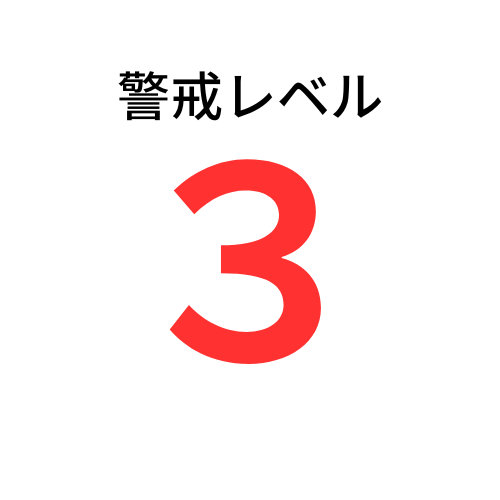
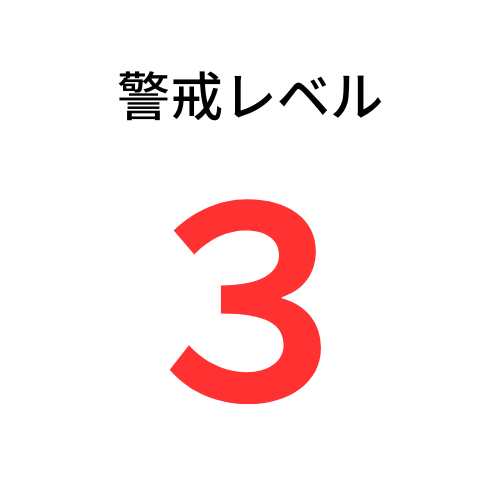
up

Changed region(s): [[0.33, 0.3, 0.66, 0.81]]

diff --git a/practice/level.html b/practice/level.html
@@ -71,9 +71,9 @@
 
     <p class="pt-5 pb-5">あなたがとるべき避難行動は、どのタイミングでの避難でしょうか？</p>
     <p class="pb-5">ご家族、友人とチェックしてみましょう！</p>
-    <img class="inline w-80" src="./img/family.jpg" alt="避難行動判定フローの画像">
+    <img class="inline w-64" src="./img/family.jpg" alt="避難行動判定フローの画像">
     <p class="pt-5">
-      <button class="bg-blue-500 hover:bg-white-100 text-white rounded px-4 py-2"><a href="#section2">はじめる</a></button>
+      <button class="bg-blue-500 hover:bg-blue-400 text-white rounded px-4 py-2"><a href="#section2">はじめる</a></button>
     </p>
 
   </div>
@@ -82,17 +82,17 @@
     <h1 class="text-2xl">ハザードマップを確認！</h1>
     <p class="pt-5 pb-5">家がある場所に色が塗られていますか？</p>
 
-    <img class="inline w-80" src="./img/hazardmap.png" alt="ハザードマップを確認の画像">
+    <img class="inline w-64" src="./img/hazardmap.png" alt="ハザードマップを確認の画像">
 
     <p class="pt-5">
-      <button class="bg-blue-500 hover:bg-white-100 text-white rounded px-4 py-2 mr-5"><a href="#section4">は　い</a></button>
-      <button class="bg-blue-500 hover:bg-white-100 text-white rounded px-4 py-2"><a href="#section3">いいえ</a></button>
+      <button class="bg-blue-500 hover:bg-blue-400 text-white rounded px-4 py-2 mr-5"><a href="#section4">は　い</a></button>
+      <button class="bg-blue-500 hover:bg-blue-400 text-white rounded px-4 py-2"><a href="#section3">いいえ</a></button>
     </p>
 
   </div>
   <div class="section" id="section3">
     <h1 class="text-3xl">ANSWER</h1>
-    <img class="inline w-80 pt-5" src="./img/mountain.png" alt="山間部の画像">
+    <img class="inline w-64 pt-5" src="./img/mountain.png" alt="山間部の画像">
     <p class="pt-5 pb-5">色が塗られていなくても、周りと比べて低い土地や崖のそばなどにお住まいの方は、市区町村からの避難情報を参考に必要に応じて避難してください。</p>
 
   </div>
@@ -101,11 +101,11 @@
     <h1 class="text-2xl">避難にかかる時間を確認！</h1>
     <p class="pt-5 pb-5">ご自身または一緒に避難する方は避難に時間がかかりますか？</p>
 
-    <img class="inline w-80" src="./img/refugetime.jpg" alt="避難にかかる時間を確認の画像">
+    <img class="inline w-64" src="./img/refugetime.jpg" alt="避難にかかる時間を確認の画像">
 
     <p class="pt-5">
-      <button class="bg-blue-500 hover:bg-white-100 text-white rounded px-4 py-2 mr-5"><a href="#section5">は　い</a></button>
-      <button class="bg-blue-500 hover:bg-white-100 text-white rounded px-4 py-2"><a href="#section6">いいえ</a></button>
+      <button class="bg-blue-500 hover:bg-blue-400 text-white rounded px-4 py-2 mr-5"><a href="#section5">は　い</a></button>
+      <button class="bg-blue-500 hover:bg-blue-400 text-white rounded px-4 py-2"><a href="#section6">いいえ</a></button>
     </p>
   </div>
 
@@ -113,11 +113,11 @@
     <h1 class="text-2xl">身を寄せられる場所の確認！</h1>
     <p class="pt-5 pb-5">安全な場所に住んでいて身を寄せられる親戚や知人はいますか？</p>
 
-    <img class="inline w-80" src="./img/network.jpg" alt="身を寄せられる場所の確認の画像">
+    <img class="inline w-64" src="./img/network.jpg" alt="身を寄せられる場所の確認の画像">
 
     <p class="pt-5">
-      <button class="bg-blue-500 hover:bg-white-100 text-white rounded px-4 py-2 mr-5"><a href="#section7">は　い</a></button>
-      <button class="bg-blue-500 hover:bg-white-100 text-white rounded px-4 py-2"><a href="#section8">いいえ</a></button>
+      <button class="bg-blue-500 hover:bg-blue-400 text-white rounded px-4 py-2 mr-5"><a href="#section7">は　い</a></button>
+      <button class="bg-blue-500 hover:bg-blue-400 text-white rounded px-4 py-2"><a href="#section8">いいえ</a></button>
     </p>
   </div>
 
@@ -125,18 +125,18 @@
     <h1 class="text-2xl">身を寄せられる場所の確認！</h1>
     <p class="pt-5 pb-5">安全な場所に住んでいて身を寄せられる親戚や知人はいますか？</p>
 
-    <img class="inline w-80" src="./img/network.jpg" alt="身を寄せられる場所の確認の画像">
+    <img class="inline w-64" src="./img/network.jpg" alt="身を寄せられる場所の確認の画像">
 
     <p class="pt-5">
-      <button class="bg-blue-500 hover:bg-white-100 text-white rounded px-4 py-2 mr-5"><a href="#section9">は　い</a></button>
-      <button class="bg-blue-500 hover:bg-white-100 text-white rounded px-4 py-2"><a href="#section10">いいえ</a></button>
+      <button class="bg-blue-500 hover:bg-blue-400 text-white rounded px-4 py-2 mr-5"><a href="#section9">は　い</a></button>
+      <button class="bg-blue-500 hover:bg-blue-400 text-white rounded px-4 py-2"><a href="#section10">いいえ</a></button>
     </p>
   </div>
 
   <div class="section" id="section7">
     <h1 class="text-3xl">ANSWER</h1>
 
-    <img class="inline w-80 pt-5" src="./img/level3.png" alt="警戒レベル３の画像">
+    <img class="inline w-64 pt-5" src="./img/level3.png" alt="警戒レベル３の画像">
 
     <p class="pt-5 pb-5">警戒レベル３が出たら、安全な親戚や知人宅に避難しましょう(日頃から相談しておきましょう)。</p>
 
@@ -145,7 +145,7 @@
   <div class="section" id="section8">
     <h1 class="text-3xl">ANSWER</h1>
 
-    <img class="inline w-80 pt-5" src="./img/level3.png" alt="警戒レベル３の画像">
+    <img class="inline w-64 pt-5" src="./img/level3.png" alt="警戒レベル３の画像">
 
     <p class="pt-5 pb-5">警戒レベル３が出たら、市区町村が指定している指定緊急避難場所に避難しましょう。</p>
 
@@ -154,7 +154,7 @@
   <div class="section" id="section9">
     <h1 class="text-3xl">ANSWER</h1>
 
-    <img class="inline w-80 pt-5" src="./img/level4.png" alt="警戒レベル４の画像">
+    <img class="inline w-64 pt-5" src="./img/level4.png" alt="警戒レベル４の画像">
 
     <p class="pt-5 pb-5">警戒レベル４が出たら、安全な親戚や知人宅に避難しましょう(日頃から相談しておきましょう)。</p>
 
@@ -163,7 +163,7 @@
   <div class="section" id="section10">
     <h1 class="text-3xl">ANSWER</h1>
 
-    <img class="inline w-80 pt-5" src="./img/level4.png" alt="警戒レベル４の画像">
+    <img class="inline w-64 pt-5" src="./img/level4.png" alt="警戒レベル４の画像">
 
     <p class="pt-5 pb-5">警戒レベル４が出たら、市区町村が指定している指定緊急避難場所に避難しましょう。</p>
 

diff --git a/index.html b/index.html
@@ -152,10 +152,21 @@
         <center>
           <span id="sns">
             <img src="images/qr.png"><br><br>
-            <a href="https://twitter.com/share?url=https://linkevery2s.github.io/eye/index.html&text=EYE-防災アシスタント"><img src="images/tw.png"></a><br>
+
+            <a href="https://twitter.com/share" class="twitter-share-button" data-lang="ja">ツイート</a>
+            <script>!function(d,s,id){var js,fjs=d.getElementsByTagName(s)[0],p=/^http:/.test(d.location)?'http':'https';if(!d.getElementById(id)){js=d.createElement(s);js.id=id;js.src=p+'://platform.twitter.com/widgets.js';fjs.parentNode.insertBefore(js,fjs);}}(document, 'script', 'twitter-wjs');</script>
+
+            <div class="fb-share-button" data-href="https://developers.facebook.com/docs/plugins/" data-layout="button" data-size="small"><a target="_blank" href="https://www.facebook.com/sharer/sharer.php?u=https%3A%2F%2Fdevelopers.facebook.com%2Fdocs%2Fplugins%2F&amp;src=sdkpreparse" class="fb-xfbml-parse-ignore">シェアする</a></div>
+
+            <a href="https://b.hatena.ne.jp/entry/" class="hatena-bookmark-button" data-hatena-bookmark-layout="basic-label" data-hatena-bookmark-lang="ja" title="このエントリーをはてなブックマークに追加"><img src="https://b.st-hatena.com/images/v4/public/entry-button/button-only@2x.png" alt="このエントリーをはてなブックマークに追加" width="20" height="20" style="border: none;" /></a><script type="text/javascript" src="https://b.st-hatena.com/js/bookmark_button.js" charset="utf-8" async="async"></script>
+
+            <div class="line-it-button" data-lang="ja" data-type="share-a" data-url="https://linkevery2s.github.io/eye/index.html" style="display: none;"></div>
+            <script src="https://d.line-scdn.net/r/web/social-plugin/js/thirdparty/loader.min.js" async="async" defer="defer"></script>
+
+           <!-- <a href="https://twitter.com/share?url=https://linkevery2s.github.io/eye/index.html&text=EYE-防災アシスタント"><img src="images/tw.png"></a><br>
             <a href="https://www.facebook.com/share.php?u=https://linkevery2s.github.io/eye/index.html"><img src="images/fb.png"></a><br>
             <a href="https://line.me/R/msg/text/?https://linkevery2s.github.io/eye/index.html"><img src="images/line_button.png"></a><br>
-            <a href="mailto:?body=https://linkevery2s.github.io/eye/index.html"><img src="images/mailt.png"></a>
+            <a href="mailto:?body=https://linkevery2s.github.io/eye/index.html"><img src="images/mailt.png"></a>-->
           </span>
         </center>
       </div>
@@ -169,13 +180,13 @@
   <div id="footer">
     <ul class="menu">
       <li><span class="list" onclick="home();"><i class="fa fa-home"></i><br>
-          ホーム</span></li>
+      ホーム</span></li>
       <li><span class="list" onclick="listen();"><i class="fa fa-search"></i><br>
-          調べる</span></li>
+      調べる</span></li>
       <li><span class="list" onclick="manual();"><i class="fa fa-book"></i><br>
-          使い方</span></li>
+      使い方</span></li>
       <li><span class="list" onclick="share();"><i class="fas fa-share-alt"></i><br>
-          シェア</span></li>
+      シェア</span></li>
     </ul>
     <a href="javascript:void(0);" onclick="rss();">開発日記</a>  <a href="javascript:void(0);" onclick="question();">問合せ</a>  &copy;仁志  <a href="https://creativecommons.org/licenses/by/4.0/deed.ja" target="_blank">CC BY 4.0</a>
   </div>
@@ -226,17 +237,17 @@
 
   </script>
 
-  <!--<div id="fb-root"></div>
-  <script async defer crossorigin="anonymous" src="https://connect.facebook.net/ja_JP/sdk.js#xfbml=1&version=v10.0" nonce="mF6G9pPX"></script>-->
+  <div id="fb-root"></div>
+  <script async defer crossorigin="anonymous" src="https://connect.facebook.net/ja_JP/sdk.js#xfbml=1&version=v10.0" nonce="mF6G9pPX"></script>
 
   <script>
     <!-- lightbox2オプション設定
-    -->
-    lightbox.option({
+  -->
+  lightbox.option({
     'albumLabel':
     "",
-    })
-  </script>
+  })
+</script>
 
 </body>
 
